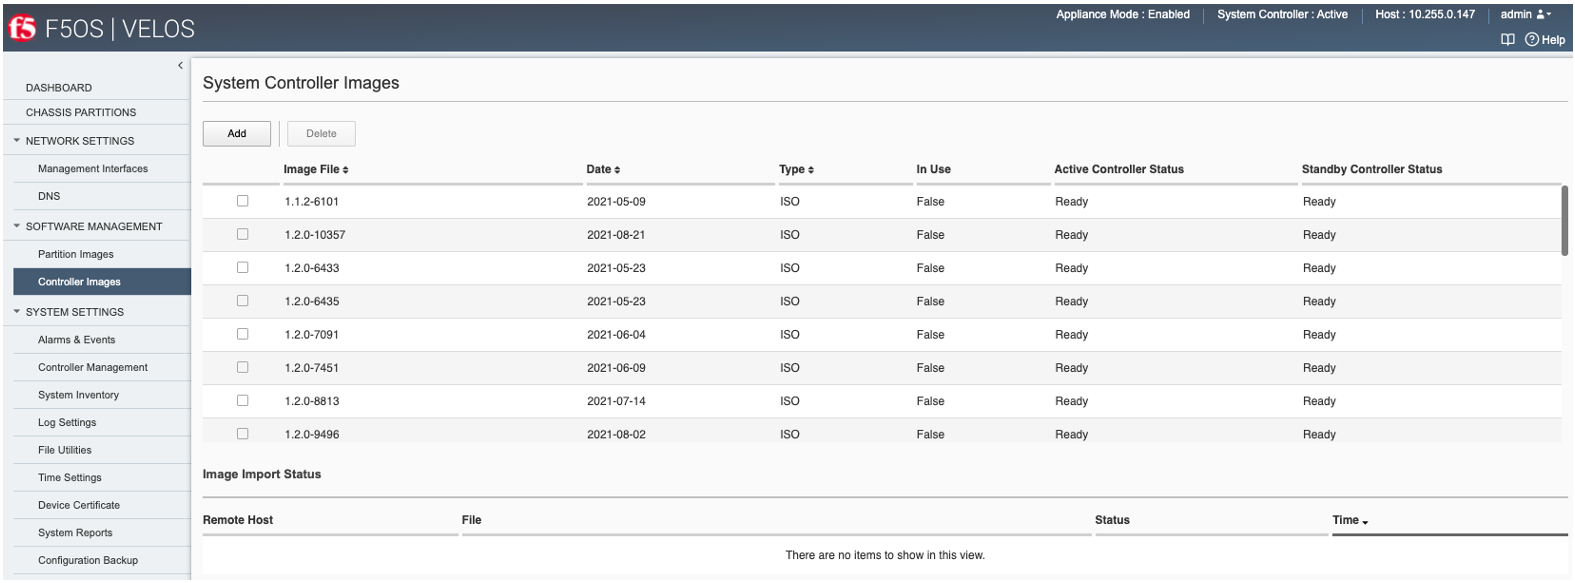
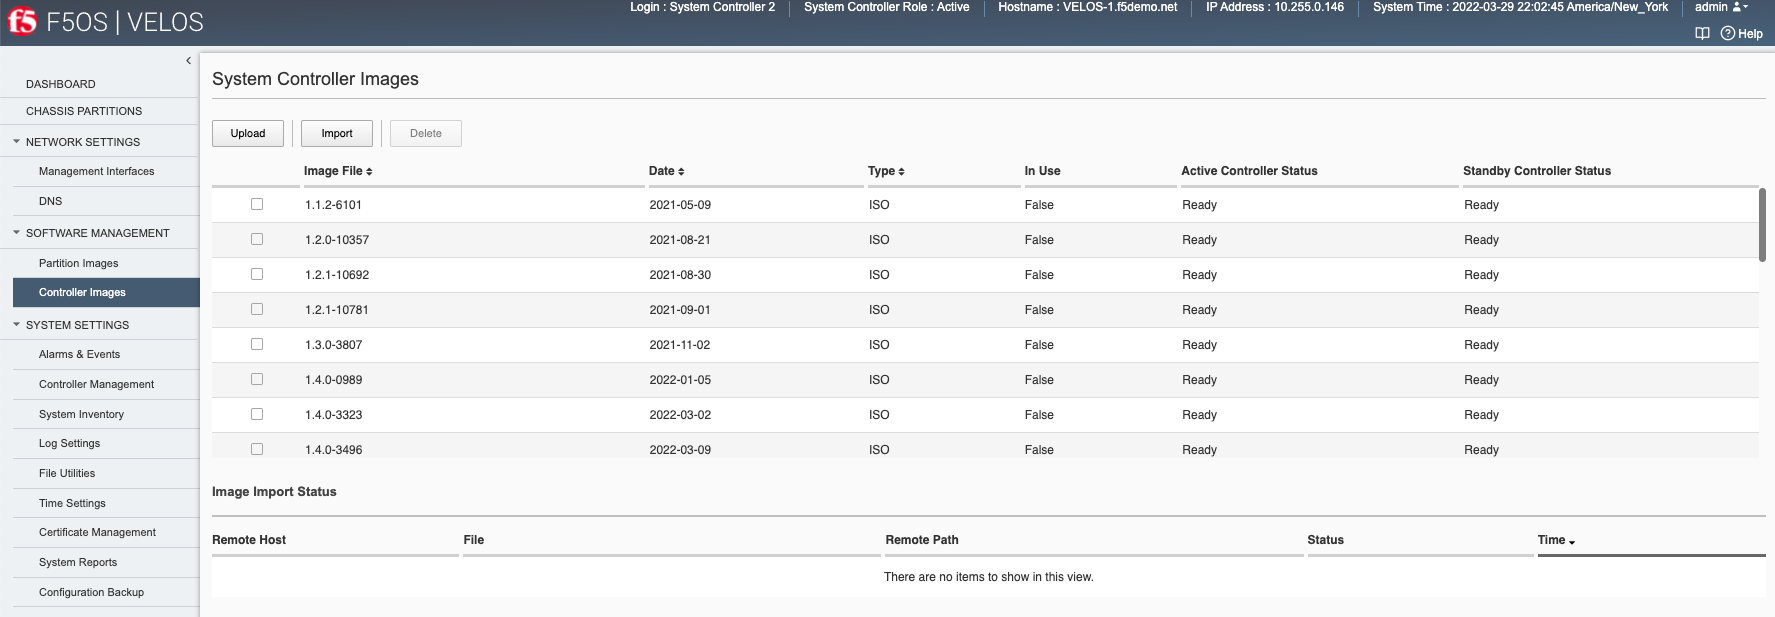
headers

diff --git a/docs/velos_software_upgrades.rst b/docs/velos_software_upgrades.rst
@@ -2,14 +2,14 @@
 Software Upgrades
 =================
 
-System Controller Upgrades
-==========================
+F5OS-C System Controller Upgrades
+=================================
 
-The system controllers are fully redundant, however during software upgrades there can be outages of the entire chassis with the initial 1.1.x releases of F5OS. v1.2.x versions of F5OS have introduced a rolling upgrade capability for the system controller upgrade process which minimizes disruption to the chassis. The chassis must be already running a version of f5OS 1.2.x or later to take advantage of this capability. Upgrades from 1.1.x version to 1.2.x version will not see rolling upgrade functionality.
+The system controllers are fully redundant, however during software upgrades there can be outages of the entire chassis with the initial 1.1.x releases of F5OS. v1.2.x versions of F5OS-C have introduced a rolling upgrade capability for the system controller upgrade process, which minimizes disruption to the chassis. The chassis must be already running a version of F5OS 1.2.x or later to take advantage of this capability. Upgrades from 1.1.x versions to a 1.2.x version will not see rolling upgrade functionality.
 
-This means that both system controllers will be updated at the same time thus causing an outage for all services within that chassis when running v1.1.x F5OS versions. For this reason, it is recommended you upgrade the system controllers during outage window and fail over all services to the other chassis that is paired with the one you’re upgrading.
+This means that both system controllers will be updated at the same time thus causing an outage for all services within that chassis when running v1.1.x F5OS versions. For this reason, it is recommended you upgrade the system controllers during outage window and fail over all services to the other chassis that is paired with the one you’re upgrading. For 1.2.x and later upgrades of F5OS-C on the system controllers a rolling upgrade occurs where the standby controllers is upgraded first, and when completed thit will go to an acitve state, and the remaining controller will be upgraded.
 
-When upgrading the system controllers, you will have a choice of upgrading either a bundled release meaning **OS** and **Services** are **bundled** together in an ISO image or **unbundled** where you can upgrade service and/or OS independently.
+When upgrading the system controllers, you will have a choice of upgrading either a bundled release meaning **OS** and **Services** are **bundled** together in an ISO image or **unbundled** where you can upgrade service and/or OS independently. F5 recommends using the bundled / ISO option for upgrades at this time. In the future, unbundled options may be utilized for some upgrades.
 
 .. image:: images/velos_software_upgrades/image1.png
   :align: center
@@ -34,26 +34,26 @@ You can do this from the **Software Management -> Partitions Image** and **Contr
   :align: center
   :scale: 70%
 
-When you click **Add**, you will be prompted to provide the configuration details for a remote HTTPS server where the images can be downloaded from. In the current F5OS versions there is no option to upload directly from your browser (this will be added in a future release). You will need to have a remote HTTPS server that allows downloads to import images into the system via the webUI.
+Click **Add** and you will be prompted to provide the configuration details for a remote HTTPS server where the images can be downloaded from. You will need to have a remote HTTPS server that allows downloads in order to import images into the system via the webUI. You can alternatively use the **Upload** option to upload an F5OS-C system controller or partition ISO file form a client machine through the browser.
 
-You can alternatively upload F5OS images for both the system controllers and the chassis partitions using the **Sysyem Settings > File Utilities** page.
+You can also upload or import F5OS-C images for both the system controllers and the chassis partitions using the **System Settings > File Utilities** page.
 
 .. image:: images/velos_software_upgrades/image5.png
   :align: center
   :scale: 70%
 
-  Alternatively, you may also upload images to the controller through the **System Settings -> File Utilities** page. You can select the **images/staging** option form the drop-down menu to import new controller or partition images. Once uploaded into the staging area they will be imported and made available for upgrades after a brief delay.
+Alternatively, you may also upload images to the controller through the **System Settings -> File Utilities** page. You can select the **images/staging** option form the drop-down menu to import new controller or partition images. Once uploaded into the staging area they will be imported and made available for upgrades after a brief delay.
 
 .. image:: images/velos_software_upgrades/image6.png
   :align: center
   :scale: 70%
 
-After the upload completes, it will take some time for it to be replicated to the standby system controller. At that point it should show up in the CLI and webUI. If you don’t see it immediately be patient and wait a few minutes for it to show up as it will not show up until the internal replication is completed.
+After the upload completes, it will take some time for it to be replicated to the standby system controller. At that point it should show up in the CLI and webUI. If you don’t see it immediately, be patient and wait a few minutes for it to show up, as it will not appear until the internal replication is completed.
 
 Uploading Controller and Partition Images via the CLI
 -----------------------------------------------------
 
-As with the webUI, the current implementation of **file import** in the CLI relies on a remote HTTPS server hosting the image files to be imported. The files should be imported into the **images/staging** directory. Once the file import is initiated you can check its status using the **file transfer-status** command.
+The current implementation of **file import** in the CLI relies on either a remote HTTPS, SCP, or SFTP server hosting the image files to be imported. The files should be imported into the **images/staging** directory. Once the file import is initiated, you can check its status using the **file transfer-status** command.
 
 
 .. code-block:: bash
@@ -78,13 +78,15 @@ You can alternatively copy the controller and partition images into the floating
 Uploading Controller and Partition Images via the API
 -----------------------------------------------------
 
-As with the webUI, the current implementation of **file import** in the API relies on a remote HTTPS server hosting the image files to be imported. The files should be imported into the **images/staging** directory. Once the file import is initiated you can check its status using the **file transfer-status** API calls.
+As with the webUI, the current implementation of **file import** in the API relies on either a remote HTTPS, SCP, or SFTP server hosting the image files to be imported. The files should be imported into the **images/staging** directory. Once the file import is initiated you can check its status using the **file transfer-status** API calls.
 
 List the current system controller and partitions images in the images/staging directory via API calls:
 
 .. code-block:: bash
 
     POST https://{{Chassis1_System_Controller_IP}}:8888/restconf/data/f5-utils-file-transfer:file/list
+
+The following JSON should be in the payload of the API call above.
 
     .. code-block:: json
 
@@ -249,7 +251,7 @@ You’ll see output similar to the example below. Once the file shows up here yo
 Upgrading the System Controllers via webUI
 ----------------------------------------
 
-Once the new images are loaded you can perform the upgrade from the **System Settings > Controller Management** screen. Currently it is recommended you use the **Bundled** option to upgrade using the ISO. In the future there may be cases where **Unbundled** (separate OS or Service upgrades) are recommended. Once you click Save the upgrade process will begin. For F5OS versions 1.1.x there is no rolling upgrade support and both controllers will reboot immediately taking the entire chassis offline. For F5OSv1.2 rolling upgrade support has been added, but you must be on a v1.2.x release or later to take advantage of this new functionality.
+Once the new images are loaded, you can perform the upgrade from the **System Settings > Controller Management** screen. Currently it is recommended you use the **Bundled** option to upgrade using the ISO. In the future, there may be cases where **Unbundled** (separate OS or Service upgrades) are recommended. Once you click **Save** the upgrade process will begin. For F5OS versions 1.1.x there is no rolling upgrade support and both controllers will reboot immediately taking the entire chassis offline. For F5OSv1.2 rolling upgrade support has been added, but you must be on a v1.2.x release or later to take advantage of this new functionality. With rolling upgrade support traffic disruption should be minimal during the upgrade process.
 
 .. image:: images/velos_software_upgrades/image7.png
   :align: center
@@ -258,7 +260,6 @@ Once the new images are loaded you can perform the upgrade from the **System Set
 Chassis Partition Upgrades
 ==========================
 
------------------------------------------
 Upgrading a Chassis Partition via the webUI
 -----------------------------------------
 
@@ -268,7 +269,7 @@ Upgrade of chassis partitions is performed from the system controller webUI **Pa
   :align: center
   :scale: 70%
 
------------------------------------------
+
 Upgrading a Chassis Partition via the CLI
 -----------------------------------------
 
@@ -450,7 +451,7 @@ An upgrade of the system controllers should automatically start after the above 
 
     syscon-2-active# 
 
------------------------------------------
+
 Upgrading a Chassis Partition via the API
 -----------------------------------------
 
